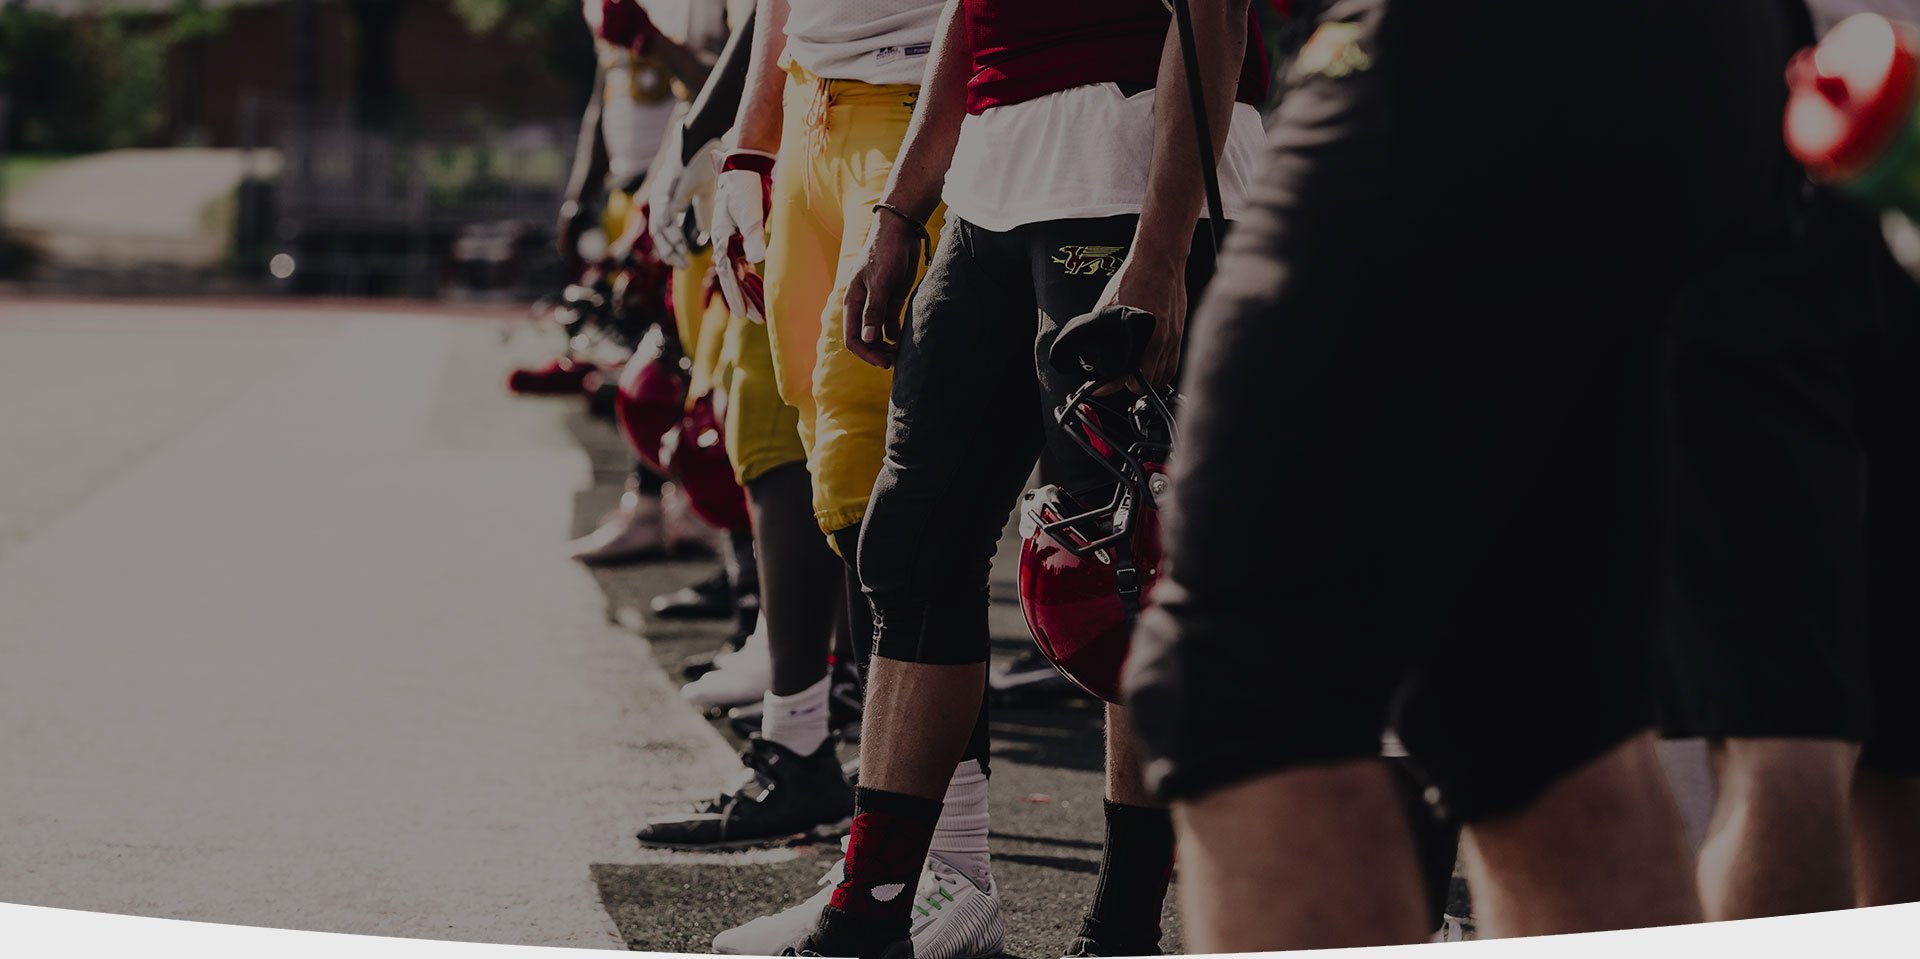
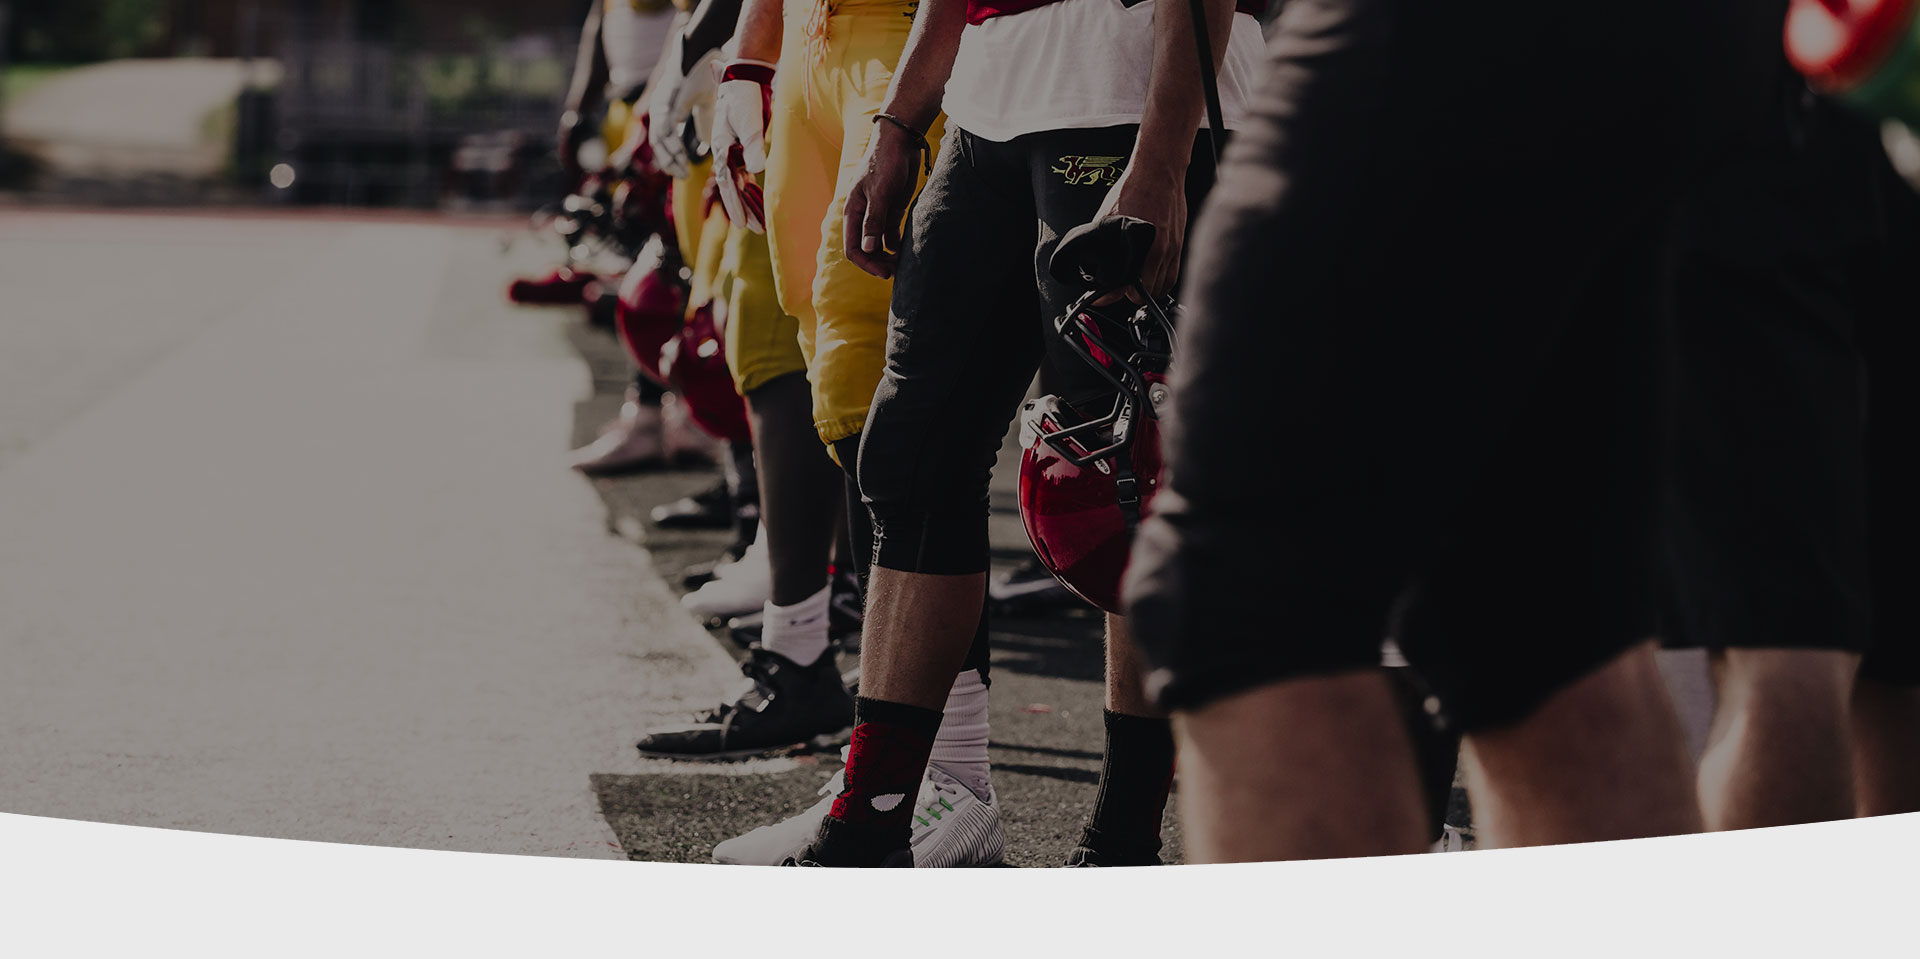
fix bg curve issue, change link hovers

diff --git a/css/style.css b/css/style.css
@@ -36,7 +36,7 @@ html {
   height: 800px;
   width: 100%;
   background: url("../img/banner-bg.jpg") no-repeat center;
-  border-radius: 0 0 50% 50% / 4%;
+  /* border-radius: 0 0 50% 50% / 4%; */
 }
 
 .main-navbar-nav .navbar-brand {
@@ -60,7 +60,7 @@ html {
   opacity: .7;
 }
 .main-navbar-nav .navbar-nav .nav-item a:hover {
-  color: #234197 !important;
+  color: #FF813E !important;
   -webkit-transition: all .33s ease;
   -moz-transition: all .33s ease;
   -o-transition: all .33s ease;
